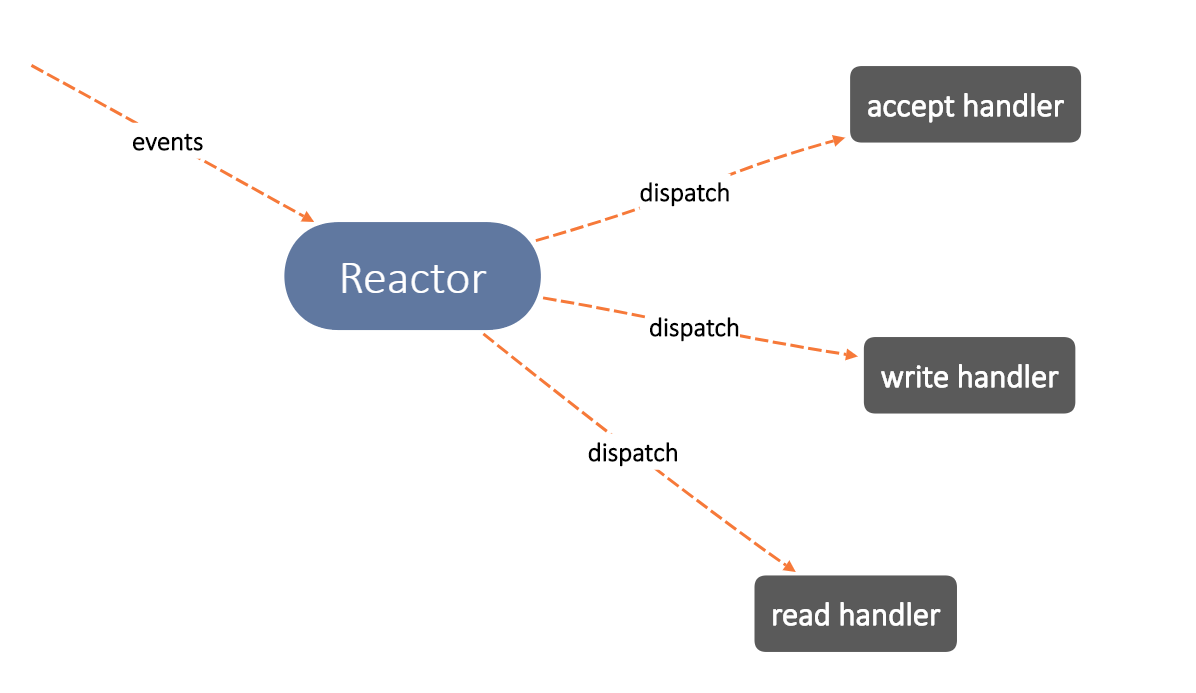
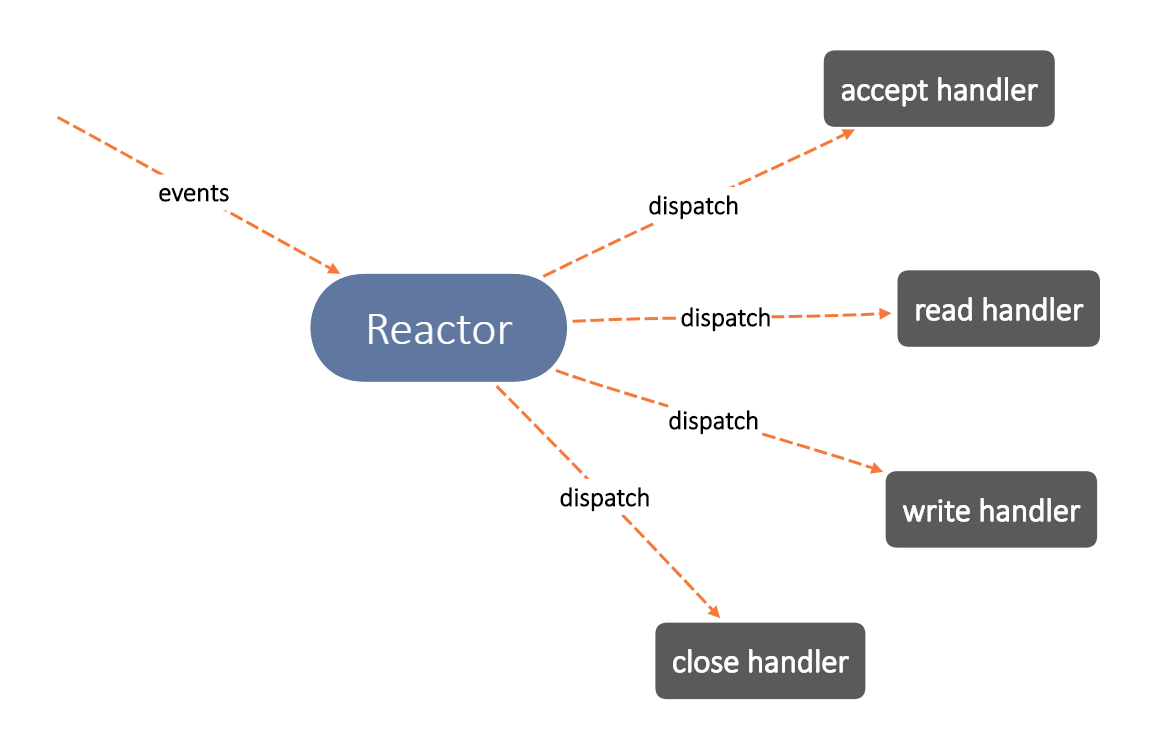
update README.md

diff --git a/README.md b/README.md
@@ -14,9 +14,11 @@
 
 <img src="./media/overview.png" alt="overview.png" width="600" />
 
-其中Reactor在主线程运行，其他三种handler运行在worker线程。
+其中Reactor在主线程运行，其他4种handler运行在worker线程。
 
 线程池的目的就是为handler提供线程资源，同时最小化线程创建和销毁的开销。
+
+<!-- 在使用线程池分配计算资源的情况下，每条连接都由且仅由一个线程处理，但不是某个时刻的所有连接都同时拥有一个线程资源，因为worker线程的总数在线程池初始化时就决定了，同时拥有线程资源的连接数不能超过这个数量。暂时不拥有计算资源的连接在线程池的任务队列中，等待被服务。 -->
 
 ## 并发性能
 
